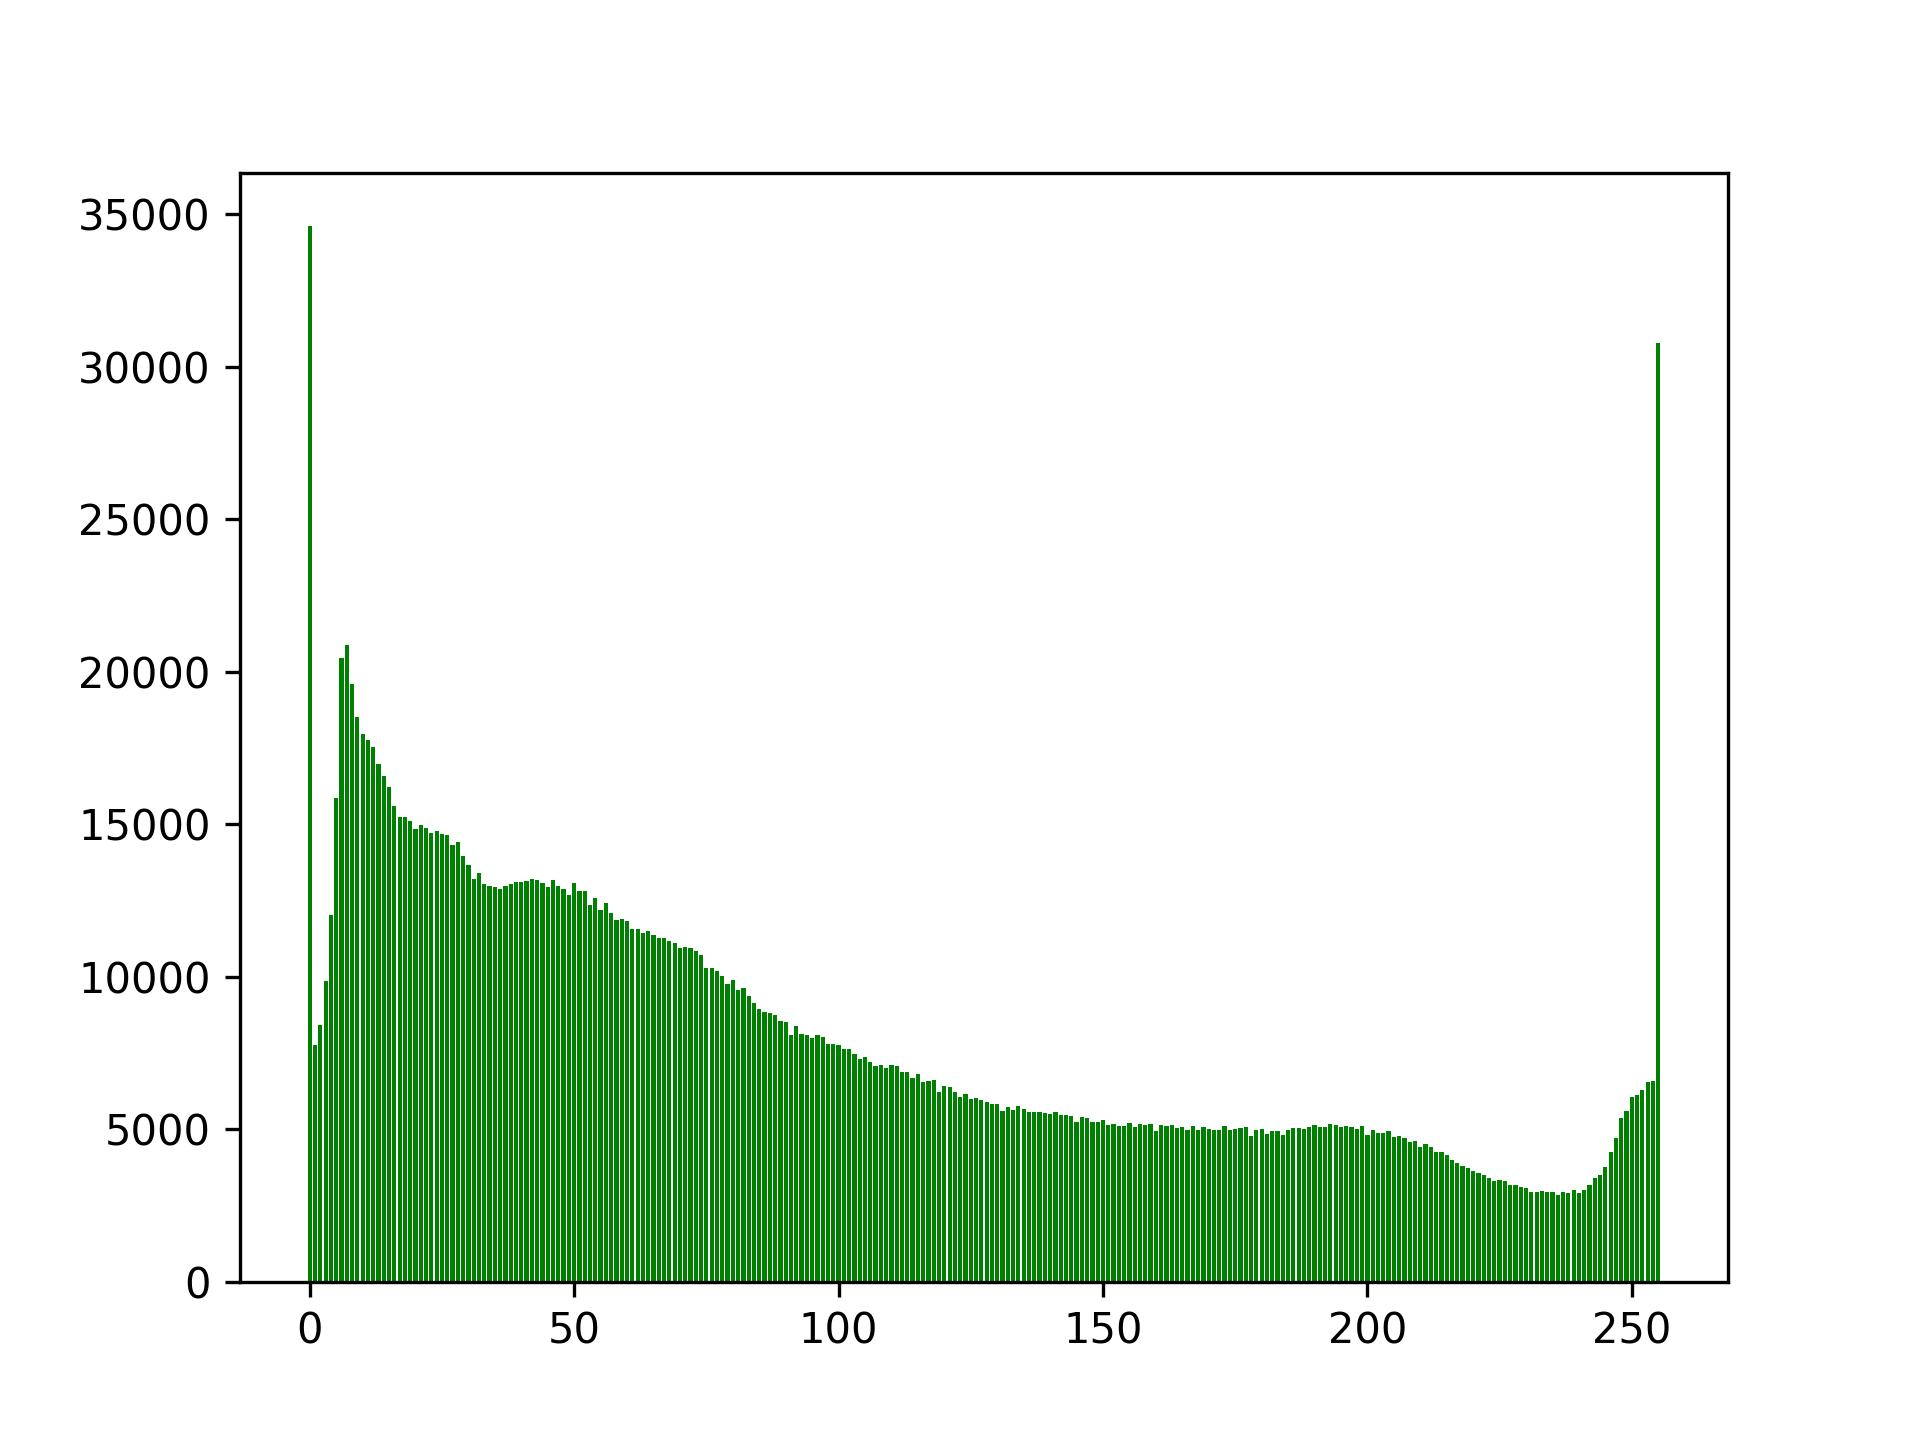
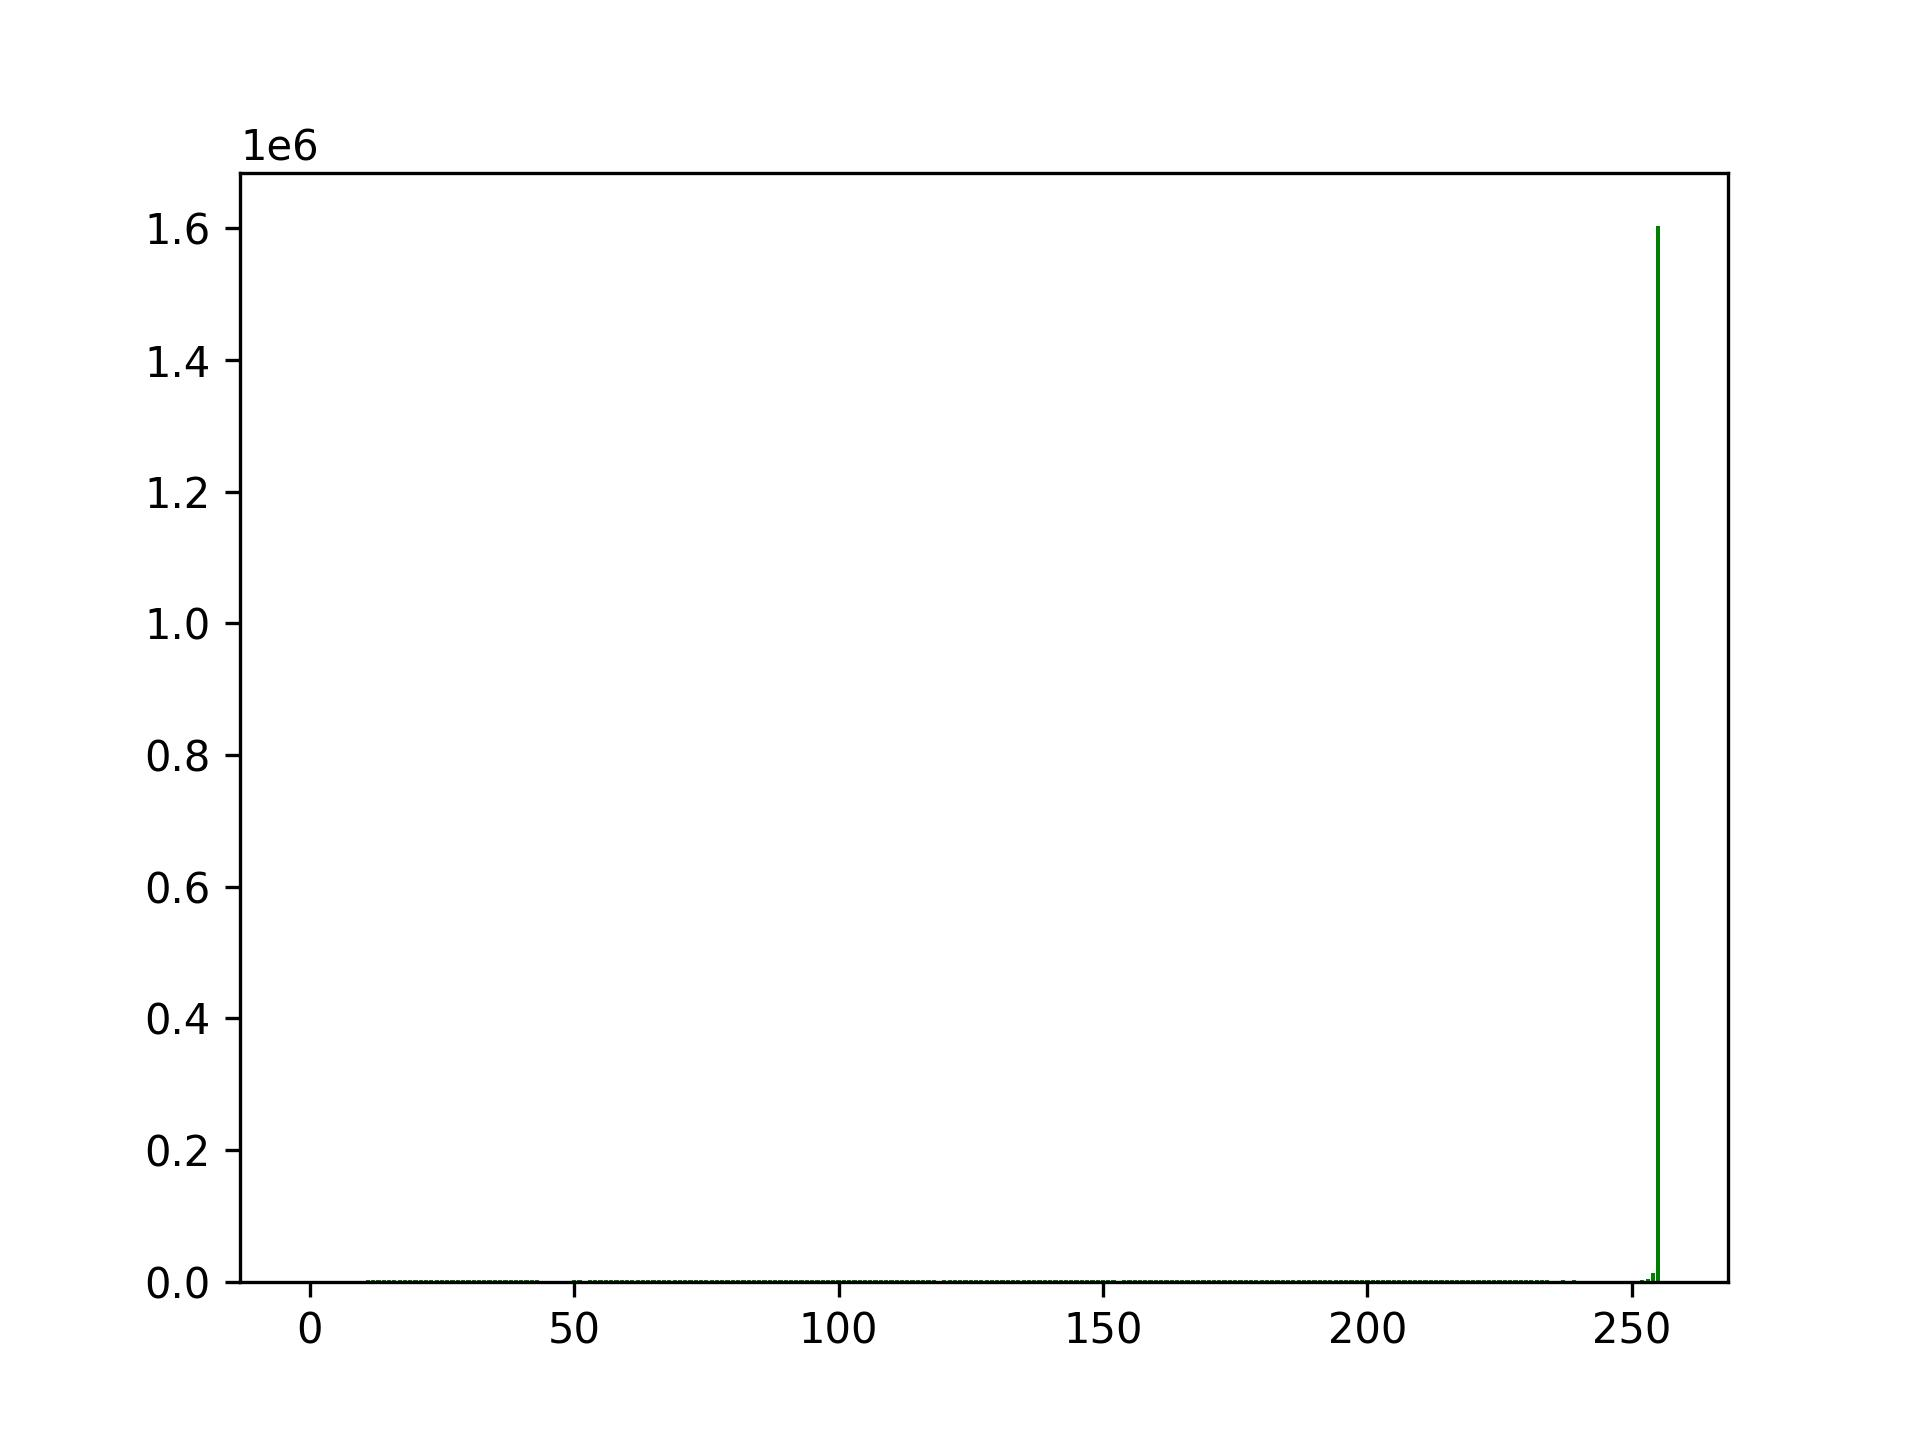
Add the final random matrix

diff --git a/templates/processing.html b/templates/processing.html
@@ -226,6 +226,8 @@
                     <button id="btnColor" class="btn btn-lg btn-success" type="submit" name="mode" value="color">Identity Filter</button>
                     <input type="hidden" name="image" value="{{ image_name }}">
                 </form>
+
+
                 <form id="form-MeanFilter" action="{{ url_for('MeanFilter') }}" method="POST" enctype="multipart/form-data">
                     <button id="btnColor" class="btn btn-lg btn-success" type="submit" name="mode" value="color">Mean Filter</button>
                     <input type="hidden" name="image" value="{{ image_name }}">
@@ -249,18 +251,30 @@
                     <input type="number" name="Dimension" placeholder="Dimension" required>
                     <input type="number" name="sigma_color" placeholder="Sigma Color" required>
                     <input type="number" name="sigma_space" placeholder="Sigma Space" required>
-                    <button class="btn btn-lg btn-success" type="submit" name="mode" value="left">Median Blur </button>
+                    <button class="btn btn-lg btn-success" type="submit" name="mode" value="left">Billateral Blur </button>
                     <input type="hidden" name="image" value="{{ image_name }}">
                 </form>
 
                 <form id="form-Filter" action="{{ url_for('Option_Filter') }}" method="POST" enctype="multipart/form-data">
-                    <!-- Dropdown menu for filter mode -->
                     <label for="filter_mode">Select Filter Mode:</label>
                     <select name="filter_mode" id="filter_mode" required>
                         <option value="lowpass">Lowpass</option>
                         <option value="highpass">Highpass</option>
                         <option value="bandpass">Bandpass</option>
                     </select>
+                
+                    <button class="btn btn-lg btn-success" type="submit" name="mode" value="left">Apply  Filter</button>
+                    <input type="hidden" name="image" value="{{ image_name }}">
+                </form>
+
+                <form id="form-Filter" action="{{ url_for('Random_Option_Filter') }}" method="POST" enctype="multipart/form-data">
+                    <label for="filter_mode">Select Filter Mode:</label>
+                    <select name="filter_mode" id="filter_mode" required>
+                        <option value="lowpass">Lowpass</option>
+                        <option value="highpass">Highpass</option>
+                        <option value="bandpass">Bandpass</option>
+                    </select>
+                    <input type="number" name="Dimension" placeholder="Dimension" required>
                 
                     <button class="btn btn-lg btn-success" type="submit" name="mode" value="left">Apply  Filter</button>
                     <input type="hidden" name="image" value="{{ image_name }}">

diff --git a/Image_Processing.py b/Image_Processing.py
@@ -3,6 +3,7 @@ import numpy as np
 from PIL import Image, ImageFilter
 import matplotlib.pyplot as plt
 from collections import Counter
+import Kernel
 import os
 import pandas as pd
 import matplotlib
@@ -544,5 +545,42 @@ def choose_filter(mode):
         result = highFilterPass(img)
     elif mode == "bandpass":
         result = bandFilterPass(img)
+
+    cv2.imwrite("static/images/img_now.jpg", result)
+
+
+def Random_band_filter(image, size):
+    # create the band pass filter
+    bandFilter = Kernel.generate_band_pass(size)
+    # apply the band pass filter to the image
+    bandFilterImage = cv2.filter2D(image, -1, bandFilter)
+    return bandFilterImage
+
+
+def Random_high_filter(image, size):
+    # create the band pass filter
+    highfilter = Kernel.generate_high_pass(size)
+    # apply the band pass filter to the image
+    highFilterImage = cv2.filter2D(image, -1, highfilter)
+    return highFilterImage
+
+
+def Random_low_filter(image, size):
+    # create the band pass filter
+    lowfilter = Kernel.generate_low_pass(size)
+    # apply the band pass filter to the image
+    lowFilterImage = cv2.filter2D(image, -1, lowfilter)
+    return lowFilterImage
+
+
+def random_choose_filter(mode, size):
+    img = cv2.imread('static/images/img_now.jpg')
+
+    if mode == "lowpass":
+        result = Random_low_filter(img, size)
+    elif mode == "highpass":
+        result = Random_high_filter(img, size)
+    elif mode == "bandpass":
+        result = Random_band_filter(img, size)
 
     cv2.imwrite("static/images/img_now.jpg", result)

diff --git a/Kernel.py b/Kernel.py
@@ -1,0 +1,33 @@
+import numpy as np
+
+
+def generate_low_pass(size):
+    # Generate random numbers in the matrix
+    matrix = np.random.rand(size, size)
+
+    # Normalize the matrix so that the sum of all elements is 1
+    normalized_matrix = matrix / np.sum(matrix)
+
+    return normalized_matrix
+
+
+def generate_high_pass(size):
+    # Generate random numbers in the matrix
+    matrix = np.random.rand(size, size)
+
+    # Subtract the mean of all elements to make the sum equal to 0
+    matrix -= np.mean(matrix)
+
+    return matrix
+
+
+def generate_band_pass(size):
+    while True:
+        matrix = np.random.rand(size)
+        # Check if the sum of values is not 0 or 1
+        matrix_sum = matrix.sum()
+        if matrix_sum != 0 and matrix_sum != 1:
+            break
+    return matrix
+
+

diff --git a/app.py b/app.py
@@ -539,5 +539,19 @@ def Option_Filter():
     return render_template("processing.html", image_name=filename)
 
 
+@app.route("/Random_Option_Filter", methods=["POST"])
+def Random_Option_Filter():
+    filename = request.form['image']
+    mode = request.form['filter_mode']
+    Dimension = int(request.form['Dimension'])
+
+    Image_Processing.random_choose_filter(mode, Dimension)
+    processing_thread = threading.Thread(
+        target=Image_Processing.both_histogram('static/images/img_now.jpg'))
+    processing_thread.start()
+
+    return render_template("processing.html", image_name=filename)
+
+
 if __name__ == "__main__":
     app.run()
